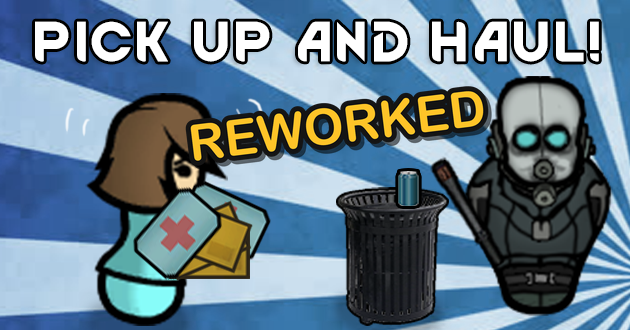
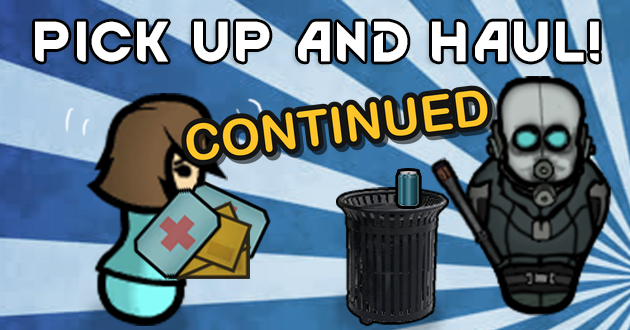
Rename to Pick Up and Haul - Continued

Changed region(s): [[0.2714, 0.2424, 0.7841, 0.5152]]

diff --git a/Source/PickUpAndHaul/StackGapCompat.cs b/Source/PickUpAndHaul/StackGapCompat.cs
@@ -38,7 +38,7 @@ static class StackGapCompat
 		affectDn = dataType == null ? null : AccessTools.Method(dataType, "AffectDn", Type.EmptyTypes);
 		if (patchType == null || find == null || affectUp == null || affectDn == null)
 		{
-			Verse.Log.Warning("Pick Up and Haul - Reworked: Stack Gap support could not be applied.");
+			Verse.Log.Warning("Pick Up and Haul - Continued: Stack Gap support could not be applied.");
 			return;
 		}
 
@@ -48,7 +48,7 @@ static class StackGapCompat
 		}
 		catch (Exception e)
 		{
-			Verse.Log.Warning($"Pick Up and Haul - Reworked: Stack Gap support could not be applied. {e.Message}");
+			Verse.Log.Warning($"Pick Up and Haul - Continued: Stack Gap support could not be applied. {e.Message}");
 			return;
 		}
 
@@ -85,7 +85,7 @@ static class StackGapCompat
 	{
 		if (target == null || postfix == null)
 		{
-			Verse.Log.Warning($"Pick Up and Haul - Reworked: {modName} support could not be applied.");
+			Verse.Log.Warning($"Pick Up and Haul - Continued: {modName} support could not be applied.");
 			return;
 		}
 
@@ -99,7 +99,7 @@ static class StackGapCompat
 		}
 		catch (Exception e)
 		{
-			Verse.Log.Warning($"Pick Up and Haul - Reworked: {modName} support could not be applied. {e.Message}");
+			Verse.Log.Warning($"Pick Up and Haul - Continued: {modName} support could not be applied. {e.Message}");
 		}
 	}
 

diff --git a/Source/PickUpAndHaul/CompatHelper.cs b/Source/PickUpAndHaul/CompatHelper.cs
@@ -151,7 +151,7 @@ internal class CompatHelper
 		{
 			if (ModCompatibilityCheck.CombatExtendedIsActive)
 			{
-				Verse.Log.Warning("Pick Up and Haul - Reworked: this Combat Extended version is not supported. Colonists haul the normal way until an update.");
+				Verse.Log.Warning("Pick Up and Haul - Continued: this Combat Extended version is not supported. Colonists haul the normal way until an update.");
 			}
 			return;
 		}
@@ -183,7 +183,7 @@ internal class CompatHelper
 	{
 		if (target == null || !ready)
 		{
-			Verse.Log.Warning($"Pick Up and Haul - Reworked: Combat Extended support for {postfix.Replace("_Postfix", "")} could not be applied.");
+			Verse.Log.Warning($"Pick Up and Haul - Continued: Combat Extended support for {postfix.Replace("_Postfix", "")} could not be applied.");
 			return;
 		}
 
@@ -193,7 +193,7 @@ internal class CompatHelper
 		}
 		catch (Exception e)
 		{
-			Verse.Log.Warning($"Pick Up and Haul - Reworked: Combat Extended support for {postfix.Replace("_Postfix", "")} could not be applied. {e.Message}");
+			Verse.Log.Warning($"Pick Up and Haul - Continued: Combat Extended support for {postfix.Replace("_Postfix", "")} could not be applied. {e.Message}");
 		}
 	}
 

diff --git a/Source/PickUpAndHaul/HarmonyPatches.cs b/Source/PickUpAndHaul/HarmonyPatches.cs
@@ -61,7 +61,7 @@ static class HarmonyPatches
 		}
 		catch (Exception e)
 		{
-			Verse.Log.Warning($"Pick Up and Haul - Reworked: could not keep own supplies apart from hauled items. {e.Message}");
+			Verse.Log.Warning($"Pick Up and Haul - Continued: could not keep own supplies apart from hauled items. {e.Message}");
 		}
 
 		RemoveDuplicateHauledComps();
@@ -72,7 +72,7 @@ static class HarmonyPatches
 		harmony.Patch(AccessTools.Method(typeof(JobGiver_Haul), nameof(JobGiver_Haul.TryGiveJob)),
 			transpiler: new(typeof(HarmonyPatches), nameof(JobGiver_Haul_TryGiveJob_Transpiler)));
 
-		Verse.Log.Message("Pick Up and Haul - Reworked welcomes you to RimWorld with pointless logspam.");
+		Verse.Log.Message("Pick Up and Haul - Continued welcomes you to RimWorld with pointless logspam.");
 	}
 
 	private static void Drafted_Prefix(Pawn_DraftController __instance, out bool __state) => __state = __instance.Drafted;

diff --git a/README.md b/README.md
@@ -1,4 +1,4 @@
-# Pick Up and Haul - Reworked
+# Pick Up and Haul - Continued
 
 Colonists pick up several things into their inventory and haul them to a stockpile in one trip.
 
